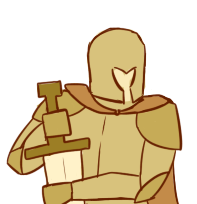
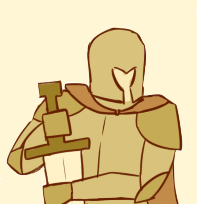
added a small surprise to the character selection screen :)

diff --git a/src/main/java/gui/CharSelectionController.java b/src/main/java/gui/CharSelectionController.java
@@ -178,4 +178,66 @@ public class CharSelectionController implements Initializable {
         Stage stage = (Stage) charTwoSelectionCircle.getScene().getWindow();
         stage.close();
     }
+
+
+    public void changeCharOne(MouseEvent mouseEvent) {
+        Image img = new Image("char1hover.png", false);
+        charOneSelectionCircle.setFill(new ImagePattern(img));
+    }
+
+
+    public void changeCharOneBack(MouseEvent mouseEvent) {
+        Image img = new Image("char1.png", false);
+        charOneSelectionCircle.setFill(new ImagePattern(img));
+    }
+
+    public void changeCharTwo(MouseEvent mouseEvent) {
+        Image img = new Image("char2hover.png", false);
+        charTwoSelectionCircle.setFill(new ImagePattern(img));
+    }
+
+    public void changeCharTwoBack(MouseEvent mouseEvent) {
+        Image img = new Image("char2.png", false);
+        charTwoSelectionCircle.setFill(new ImagePattern(img));
+    }
+
+    public void changeCharThree(MouseEvent mouseEvent) {
+        Image img = new Image("char3hover.png", false);
+        charThreeSelectionCircle.setFill(new ImagePattern(img));
+    }
+
+    public void changeCharThreeBack(MouseEvent mouseEvent) {
+        Image img = new Image("char3.png", false);
+        charThreeSelectionCircle.setFill(new ImagePattern(img));
+    }
+
+    public void changeCharFour(MouseEvent mouseEvent) {
+        Image img = new Image("char4hover.png", false);
+        charFourSelectionCircle.setFill(new ImagePattern(img));
+    }
+
+    public void changeCharFourBack(MouseEvent mouseEvent) {
+        Image img = new Image("char4.png", false);
+        charFourSelectionCircle.setFill(new ImagePattern(img));
+    }
+
+    public void changeCharFive(MouseEvent mouseEvent) {
+        Image img = new Image("char5hover.png", false);
+        charFiveSelectionCircle.setFill(new ImagePattern(img));
+    }
+
+    public void changeCharFiveBack(MouseEvent mouseEvent) {
+        Image img = new Image("char5.png", false);
+        charFiveSelectionCircle.setFill(new ImagePattern(img));
+    }
+
+    public void changeCharSix(MouseEvent mouseEvent) {
+        Image img = new Image("char6hover.png", false);
+        charSixSelectionCircle.setFill(new ImagePattern(img));
+    }
+
+    public void changeCharSixBack(MouseEvent mouseEvent) {
+        Image img = new Image("char6.png", false);
+        charSixSelectionCircle.setFill(new ImagePattern(img));
+    }
 }
